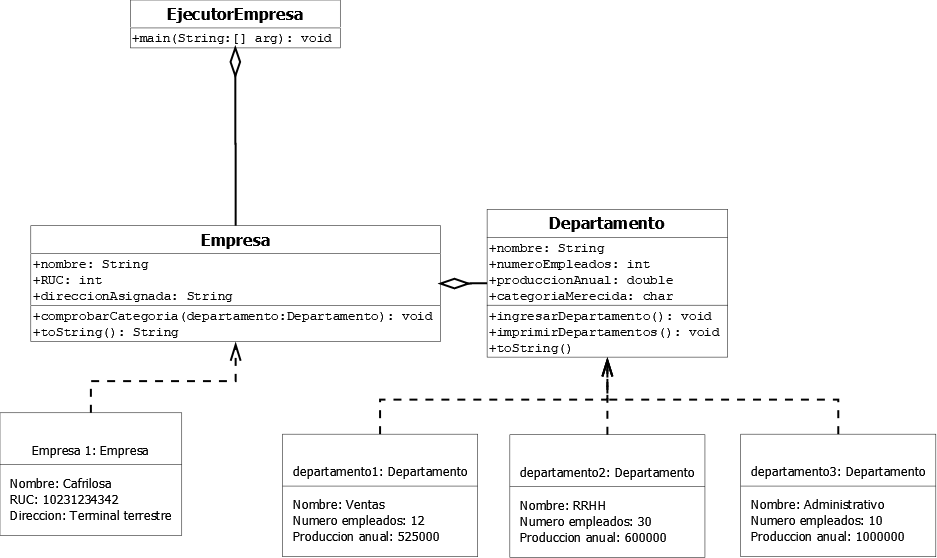
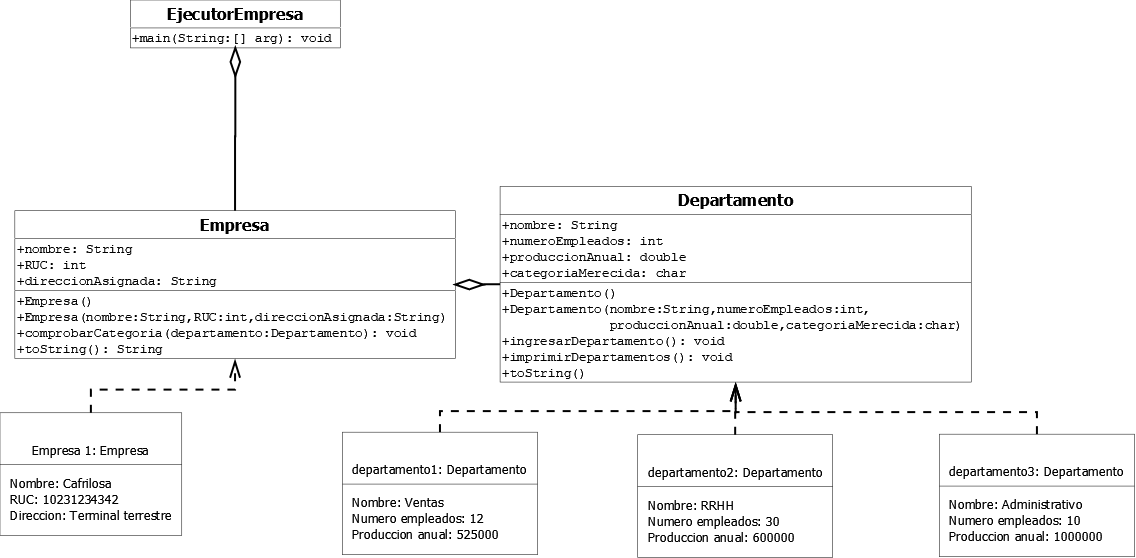
Resolucion en codigo de los ejercicios 1 y 3, ademas edicion del UML del ejercicio1

diff --git a/Solucion_Codigo/Proyecto_Taller5/src/Ejercicio3_EjecutorEmpresa.java b/Solucion_Codigo/Proyecto_Taller5/src/Ejercicio3_EjecutorEmpresa.java
@@ -1,0 +1,111 @@
+
+import java.util.ArrayList;
+
+public class Ejercicio3_EjecutorEmpresa {
+
+    public static void main(String[] args) {
+        ArrayList<Departamento> listaDepartamentos = new ArrayList<>();
+        Empresa empresaTemp = new Empresa();
+        Departamento departamentoTemp = new Departamento();
+
+        //Se agregan los datos de los departamentos
+        departamentoTemp.ingresarDepartamento("Ventas", 12, 525000, listaDepartamentos);
+        departamentoTemp.ingresarDepartamento("RRHH", 30, 600000, listaDepartamentos);
+        departamentoTemp.ingresarDepartamento("Administrativo", 10, 1000000, listaDepartamentos);
+        
+        //Se invoca el metodo para verificar la categoria
+        
+        empresaTemp.comprobarCategoria(listaDepartamentos);
+        
+        //Se imprime la informacion de los departamentos
+        
+        departamentoTemp.imprimirDepartamentos(listaDepartamentos);
+    }
+}
+
+class Empresa {
+
+    public String nombre;
+    public int RUC;
+    public String direccionAsignada;
+
+    //Constructores 
+    public Empresa() {
+    }
+
+    public Empresa(String nombre, int RUC, String direccionAsignada) {
+        this.nombre = nombre;
+        this.RUC = RUC;
+        this.direccionAsignada = direccionAsignada;
+    }
+
+    // Metodo que permite a la empresa gestionar la categoria de los departamentos
+    public void comprobarCategoria(ArrayList<Departamento> listaDepartamentos) {
+        //Se comprueba la categoria en toda la lista de departamentos
+        for (Departamento departamento1 : listaDepartamentos) {
+            if (departamento1.numeroEmpleados > 20 && departamento1.produccionAnual > 1000000) {
+                departamento1.categoriaMerecida = 'A';
+            } else if (departamento1.numeroEmpleados >= 20 && departamento1.produccionAnual == 1000000) {
+                departamento1.categoriaMerecida = 'B';
+            } else if (departamento1.numeroEmpleados >= 10 && departamento1.produccionAnual >= 500000) {
+                departamento1.categoriaMerecida = 'C';
+            } else {
+                departamento1.categoriaMerecida = 'D'; //Categoria por defecto en caso no se cumplan las condiciones
+            }
+        }
+
+    }
+
+    // metodo toString
+    @Override
+    public String toString() {
+        return "Empresa{"
+                + "\nNombre: " + nombre
+                + "\nRUC: " + RUC
+                + "\nDireccion asignada: " + direccionAsignada
+                + "\n}\n";
+    }
+}
+
+class Departamento {
+
+    public String nombre;
+    public int numeroEmpleados;
+    public double produccionAnual;
+    public char categoriaMerecida = 'D'; //Se incializa puesto que tenemos la categoria D por defecto
+
+    //Constructores
+    public Departamento() {
+    }
+
+    public Departamento(String nombre, int numeroEmpleados, double produccionAnual, char categoriaMerecida) {
+        this.nombre = nombre;
+        this.numeroEmpleados = numeroEmpleados;
+        this.produccionAnual = produccionAnual;
+        this.categoriaMerecida = categoriaMerecida;
+    }
+
+    //Metodo para ingresar los departamentos en una lista
+    public void ingresarDepartamento(String nombre, int numeroEmpleados, double produccionAnual, ArrayList<Departamento> listaDepartamentos) {
+        listaDepartamentos.add(new Departamento(nombre, numeroEmpleados, produccionAnual, categoriaMerecida));
+    }
+
+    //Metodo para imprimir la informacion de los departamentos
+    public void imprimirDepartamentos(ArrayList<Departamento> listaDepartamentos) {
+        for (Departamento listaDepartamento : listaDepartamentos) {
+            System.out.println(listaDepartamento.toString());
+        }
+    }
+    //metodo toString
+
+    @Override
+    public String toString() {
+        return "Departamento{"
+                + "\nNombre:" + nombre
+                + "\nNumero empleados:" + numeroEmpleados
+                + "\nProduccion anual:" + produccionAnual
+                + "\nCategoria merecida:" + categoriaMerecida
+                + "\n}\n";
+    }
+
+}

diff --git a/Solucion_Codigo/Proyecto_Taller5/src/Ejercicio1_EjecutorSistemaVentas.java b/Solucion_Codigo/Proyecto_Taller5/src/Ejercicio1_EjecutorSistemaVentas.java
@@ -1,0 +1,108 @@
+import java.util.ArrayList;
+
+public class Ejercicio1_EjecutorSistemaVentas {
+
+    public static void main(String[] args) {
+
+        //Creación de la lista de productos
+        ArrayList<Producto> listaProducto = new ArrayList<>();
+
+        //Se agregan productos directamente
+        listaProducto.add(new Producto("Leche", 0.99, 3));
+        listaProducto.add(new Producto("Pan", 1.20, 2));
+        listaProducto.add(new Producto("Huevos", 2.50, 1));
+
+        //Se imprimen los productos
+        for (Producto producto1 : listaProducto) {
+            System.out.print(producto1.toString());
+        }
+
+        // Simulación de la compra
+        CarritoDeCompras carrito = new CarritoDeCompras(listaProducto); // Carrito con varios productos
+        carrito.montoCliente = 10.00; // Monto del cliente
+
+        System.out.println("\n=== Detalle de Compra ===");
+        carrito.calcularTotal();
+        carrito.realizarPago();
+        System.out.println();
+        carrito.mostrarDetalleCompra();
+
+        System.out.println("\n");
+    }
+}
+
+//Declaración de la clase producto
+class Producto {
+
+    public String nombre;
+    public double precio;
+    public int cantidad;
+
+    //Constructores
+    public Producto() {
+    }
+
+    public Producto(String nombre, double precio, int cantidad) {
+        this.nombre = nombre;
+        this.precio = precio;
+        this.cantidad = cantidad;
+    }
+
+    @Override
+    public String toString() {
+        return "Nombre: " + nombre
+                + "\nPrecio: " + precio
+                + "\nCantidad: " + cantidad
+                + "\n";
+    }
+
+}
+
+//Declaración de la clase Carrito de compras
+class CarritoDeCompras {
+
+    public ArrayList<Producto> listaProductos;
+    public double montoCliente;
+    public double totalPagar;
+
+    //Constructores
+    public CarritoDeCompras() {
+        this.listaProductos = new ArrayList<>();
+    }
+
+    public CarritoDeCompras(ArrayList<Producto> productos) {
+        this.listaProductos = productos;
+    }
+
+    //Métodos
+    public double calcularTotal() {
+        totalPagar = 0;
+        for (Producto producto : listaProductos) {
+            totalPagar += producto.precio * producto.cantidad;
+        }
+        return totalPagar;
+    }
+
+    public void realizarPago() {
+        if (montoCliente > totalPagar) {
+            System.out.print("Pago exitoso.");
+            System.out.print("\nSobrante: " + (montoCliente - totalPagar));
+        } else if (montoCliente < totalPagar) {
+            System.out.print("Pago insuficiente.");
+            System.out.print("\nFaltante: " + (totalPagar - montoCliente));
+        } else {
+            System.out.print("Pago exacto realizado.");
+            System.out.print("\nSobrante: 0.0");
+        }
+    }
+
+    public void mostrarDetalleCompra() {
+        System.out.println("\n\n=== Productos Comprados ===");
+        for (Producto producto : listaProductos) {
+            System.out.print(producto.toString());
+        }
+
+        System.out.println("Total a pagar: " + totalPagar);
+        System.out.println("Total de efectivo recibido: " + montoCliente);
+    }
+}
